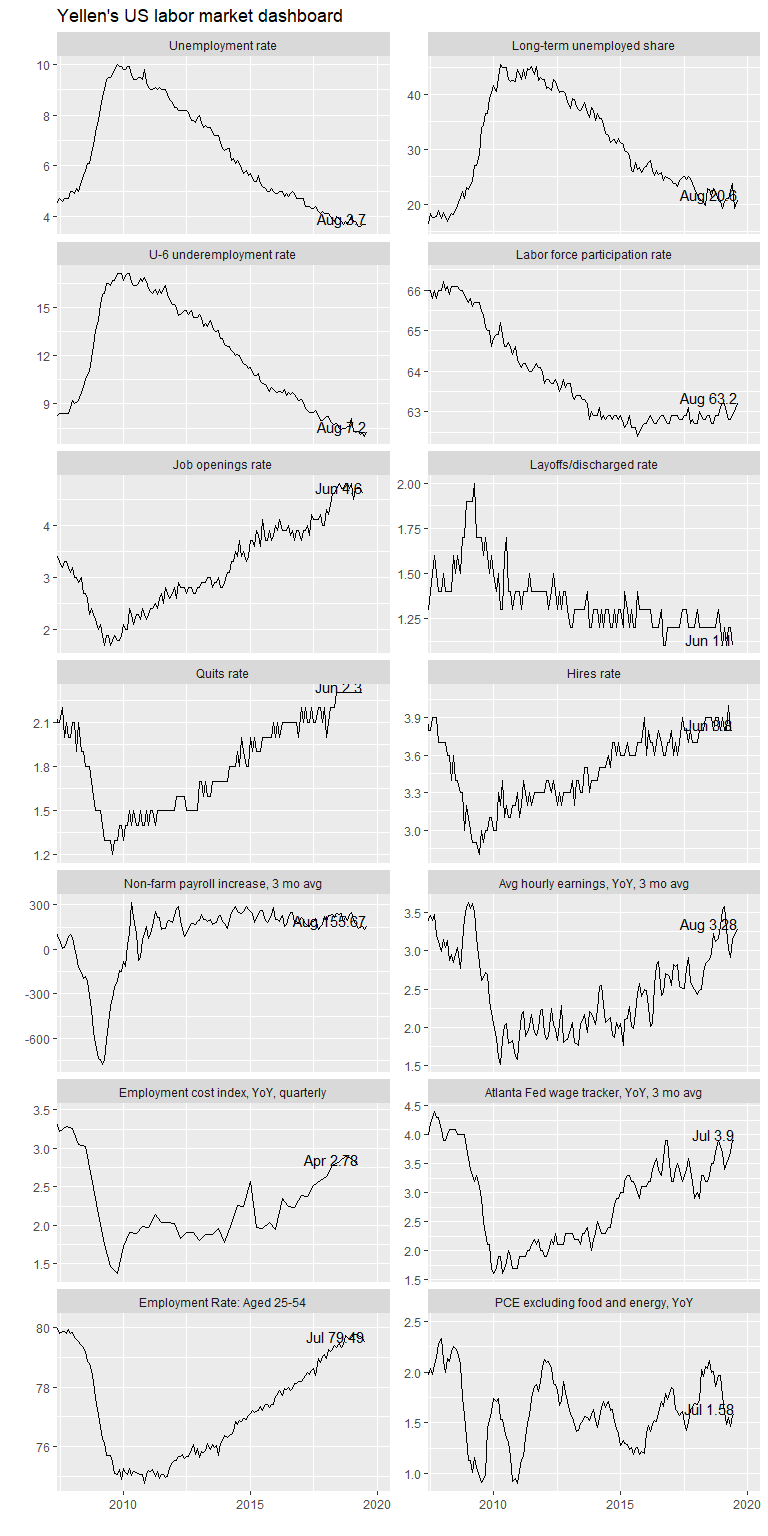
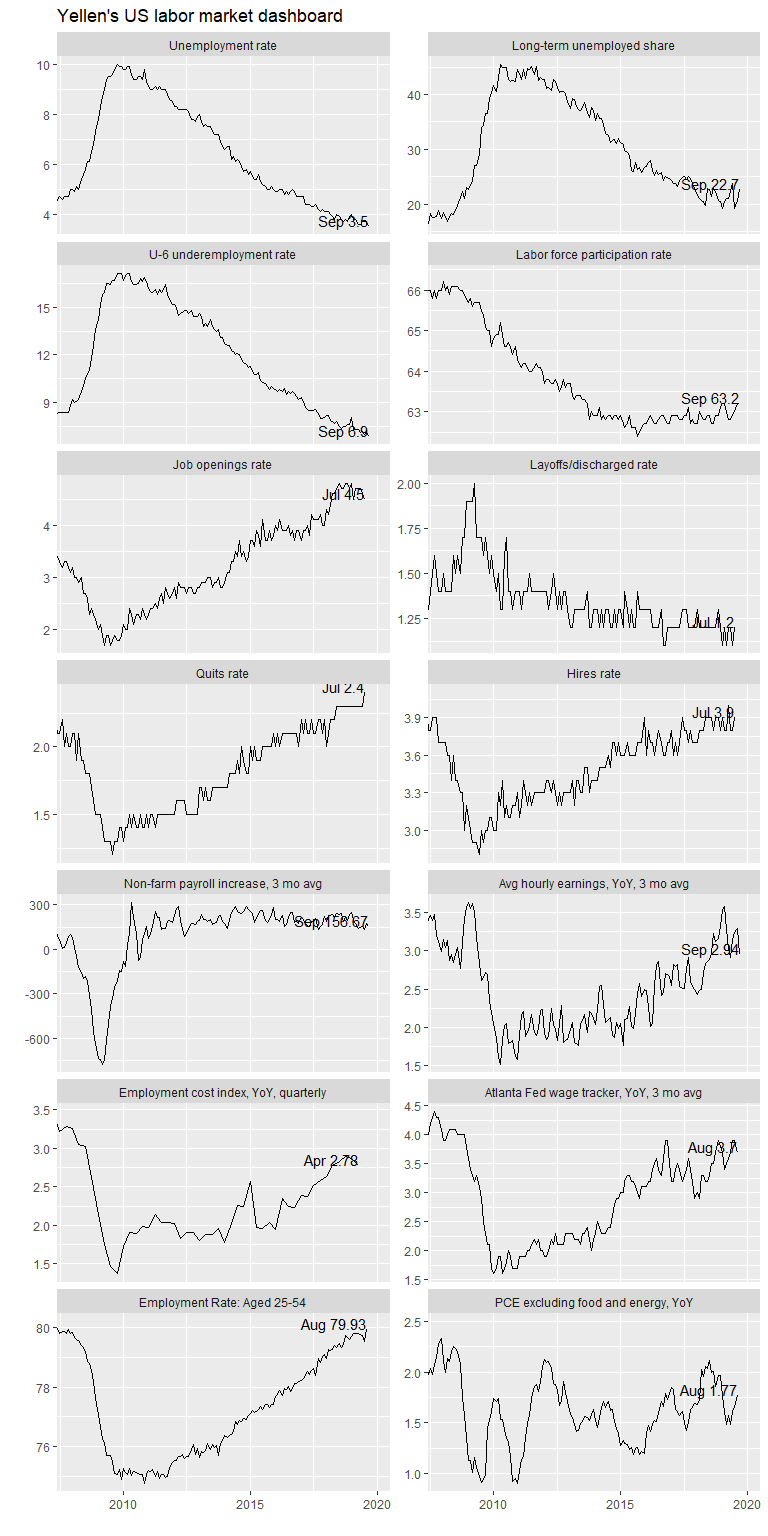
update September 2019 employment

diff --git a/README.md b/README.md
@@ -14,7 +14,7 @@ Mitsuo Shiota
   - [Prepare for the plot](#prepare-for-the-plot)
   - [Dashboard](#dashboard)
 
-Updated: 2019-09-09
+Updated: 2019-10-07
 
 ## Summary
 
